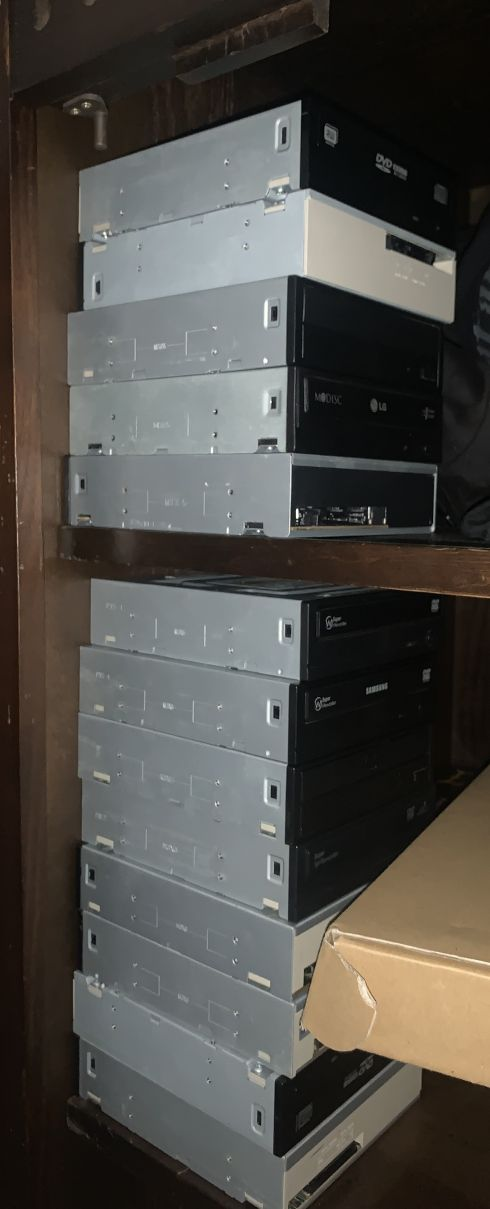
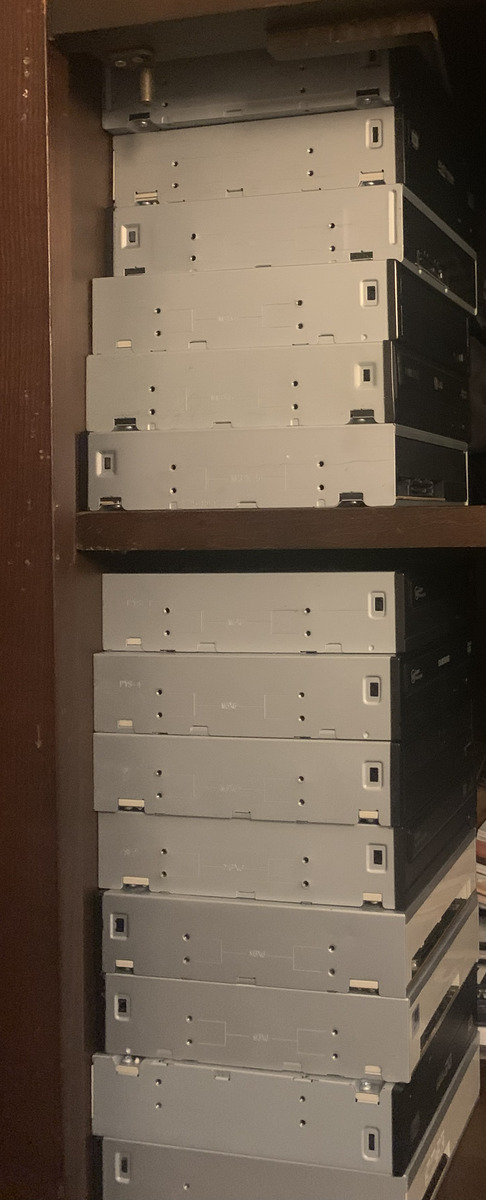
rework image handling

diff --git a/content/docs/mono/guts/x670e/index.md b/content/docs/mono/guts/x670e/index.md
@@ -19,14 +19,14 @@ pcie slot 3 is the optimal place for your hba if you plan on using pcie slot 1.
 
 ## images
 ### diagram
-![](x670e-layout.png)
+![](x670e-layout.webp)
 ### bandwidth routing
-![](x670e-logical.png)
+![](x670e-logical.webp)
 ### cpu support vs pcie support
-![](x670e-pcie-cpu.png)
+![](x670e-pcie-cpu.webp)
 ### expansion slot outtake
-![](x670e-pcie.png)
+![](x670e-pcie.webp)
 ### photo: top view
-![](x670e-photo.png)
+![](x670e-photo.webp)
 ### photo: side view
-![sideview](x670e-photo3.png)
+![sideview](x670e-photo3.webp)

diff --git a/content/docs/flow/cdrip/_index.md b/content/docs/flow/cdrip/_index.md
@@ -11,3 +11,8 @@ params:
 goal
 
 why not rerip my entire cd collection? up until 2010 i ripped all my cd's to flac with eac, and those files i still have to this day. they all have id3v2 metadata however, which seems to be a pain to convert. the metadata in general can be all over the place. since i added my whole collection in [discogs](https://www.discogs.com/user/inphobia/collection) i made sure the info there is correct. so now it's just a matter of ripping 
+
+
+## pics
+![](cdrip1.jpg)
+![](cdrip2.jpg)

diff --git a/content/docs/mono/sassw/sg3/cyclops/index.md b/content/docs/mono/sassw/sg3/cyclops/index.md
@@ -52,4 +52,4 @@ a strange but simple alternative which is also seems to be a lot more responsive
 > always matched the disk number in task manager. i cannot guarantee this
 > will always be the case, so use caution.
 
-![](allseeing.png)
+![](allseeing.webp)

diff --git a/content/docs/flow/creep/_index.md b/content/docs/flow/creep/_index.md
@@ -15,3 +15,7 @@ sometimes you outgrow your case, sometimes you want to shut down a 10 dvd drive 
 - external sas cable (sff-8644 <-> sff-8644)
 - power supply
 - {{< elink "paperclip" "paperclip" >}}
+
+## pics
+![](creep1.jpg)
+![](creep2.jpg)
